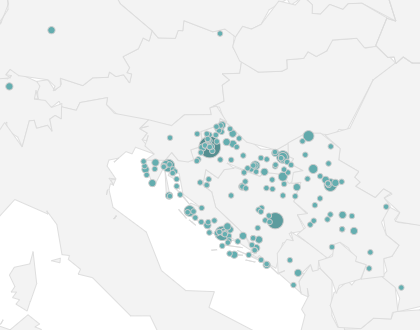
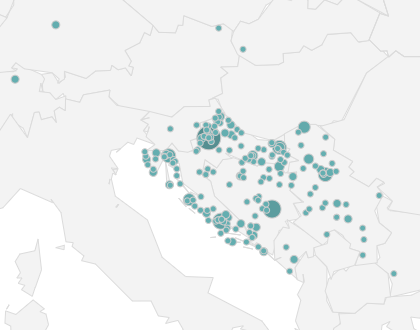
Small fix, new customers map.

diff --git a/src/pages/home.vue b/src/pages/home.vue
@@ -81,7 +81,7 @@
                         <h2 class="font-weight-bold">Zašto izabrati Program Ishrane?</h2>
                         <hr class="w-50 mx-auto mb-4">
                         <p class="text-muted mt-3">
-                            <strong>Program Ishrane</strong> je proveren i pouzdan softver koji već 18 godina koriste
+                            <strong>Program Ishrane</strong> je proveren i pouzdan softver koji već {{yearsOfDevelopment}} godina koriste
                             nutricionisti, zdravstvene ustanove i obrazovne institucije. Zahvaljujući jednostavnom
                             interfejsu,
                             pristupačnoj ceni i fleksibilnim modelima pretplate, softver je dostupan i osobama bez
@@ -91,7 +91,7 @@
                     <div class="row text-center">
                         <div class="col-md-4 mb-4">
                             <icon name="check-circle" scale=3 class="text-main mb-3" />
-                            <h5 class="font-weight-bold">19 godina razvoja</h5>
+                            <h5 class="font-weight-bold">{{yearsOfDevelopment}} godina razvoja</h5>
                             <p class="feature-text">Stabilan i razvijan u saradnji sa profesionalcima iz prakse.</p>
                         </div>
                         <div class="col-md-4 mb-4">
@@ -130,15 +130,15 @@
                 <div class="container">
                     <div class="row text-center">
                         <div class="col-md-4 mb-4">
-                            <div class="circle-stat mb-3">+770</div>
+                            <div class="circle-stat mb-3">+777</div>
                             <h5 class="text-main font-weight-bold">Aktivnih korisnika</h5>
                         </div>
                         <div class="col-md-4 mb-4">
-                            <div class="circle-stat mb-3">+170 000</div>
+                            <div class="circle-stat mb-3">+146 500</div>
                             <h5 class="text-main font-weight-bold">Kreiranih jelovnika</h5>
                         </div>
                         <div class="col-md-4 mb-4">
-                            <div class="circle-stat mb-3">+17 000</div>
+                            <div class="circle-stat mb-3">+17 300</div>
                             <h5 class="text-main font-weight-bold">Klijenata</h5>
                         </div>
                     </div>
@@ -224,7 +224,7 @@
                     <h2 class="font-weight-bold text-light mb-3">Započni odmah sa Programom Ishrane</h2>
                     <p class="lead mb-4">
                         Pridruži se stotinama zadovoljnih korisnika širom regiona i isprobaj besplatno! Uveri se zašto nas
-                        nutricionisti, poliklinike i obrazovne ustanove biraju već 19 godina.
+                        nutricionisti, poliklinike i obrazovne ustanove biraju već {{yearsOfDevelopment}} godina.
                     </p>
                     <a href="https://www.programprehrane.com/registracija?lang=sr"
                         class="btn btn-light m-2 main-border bg-white d-inline-flex align-items-center justify-content-center"
@@ -508,6 +508,7 @@ export default {
                 { img: "zavod_za_javno_zdravstvo_pgz.jpg", title: "Zavod za javno zdravstvo Primorsko goranske Županije" },
                 { img: "zavod_za_javno_zdravlje_subotica.jpg", title: "Zavod za javno zdravlje Subotica" }
             ],
+            yearsOfDevelopment : new Date().getFullYear() - 2008
         };
     },
     components: {

diff --git a/index.html b/index.html
@@ -14,13 +14,13 @@
     <meta charset="utf-8">
     <title>Program Ishrane - softver za nutricioniste</title>
     <meta name="viewport" content="width=device-width,initial-scale=1.0">
-    <meta name="description" content="Olakšajte planiranje ishrane uz proveren i pouzdan softver, koji već 18 godina koriste nutricionisti, zdravstvene i obrazovne institucije, kao i brojni pojedinci.">
+    <meta name="description" content="Olakšajte planiranje ishrane uz proveren i pouzdan softver koji koriste brojni nutricionisti, zdravstvene i obrazovne institucije, kao i sportisti i pojedinci koji vode računa o zdravoj i uravnoteženoj ishrani.">
     <meta name="author" content="IG PROG">
     <link rel="canonical" href="https://programishrane.rs"/>
     <meta property="og:type" content="website" />
     <meta property="og:title" content="Program Ishrane - Veb aplikacija za izradu uravnoteženih jelovnika" />
     <meta property="og:url" content="https://www.programishrane.rs/" />
-    <meta property="og:description" content="Olakšajte planiranje ishrane uz proveren i pouzdan softver, koji već 18 godina koriste nutricionisti, zdravstvene i obrazovne institucije, kao i brojni pojedinci." />
+    <meta property="og:description" content="Olakšajte planiranje ishrane uz proveren i pouzdan softver koji koriste brojni nutricionisti, zdravstvene i obrazovne institucije, kao i sportisti i pojedinci koji vode računa o zdravoj i uravnoteženoj ishrani." />
     <meta property="og:image" content="https://www.programishrane.rs/assets/img/og-image.png">
     <meta property="og:image:url" content="https://www.programishrane.rs/assets/img/og-image.png">
     <link rel="icon" href="/favicon.ico?v=1" />

diff --git a/src/config/prices.js b/src/config/prices.js
@@ -5,6 +5,6 @@ export const prices = {
     premium: { mo_1: 32.00, mo_3: 86.40, mo_6: 153.60, yr_1: 215.04, yr_2: 368.64, yr_3: 460.80, min_mo_price: 16.00  },
     additionalUsers: { regularPrice: 100.00, studentPrice: 10.00 },
     currency: 'RSD',
-    conversionRate: 117.37,
-    discount: { perc: 20, validTo: '21.04.2026' }
+    conversionRate: 117.40,
+    discount: { perc: 0, validTo: '21.04.2026' }
 }
